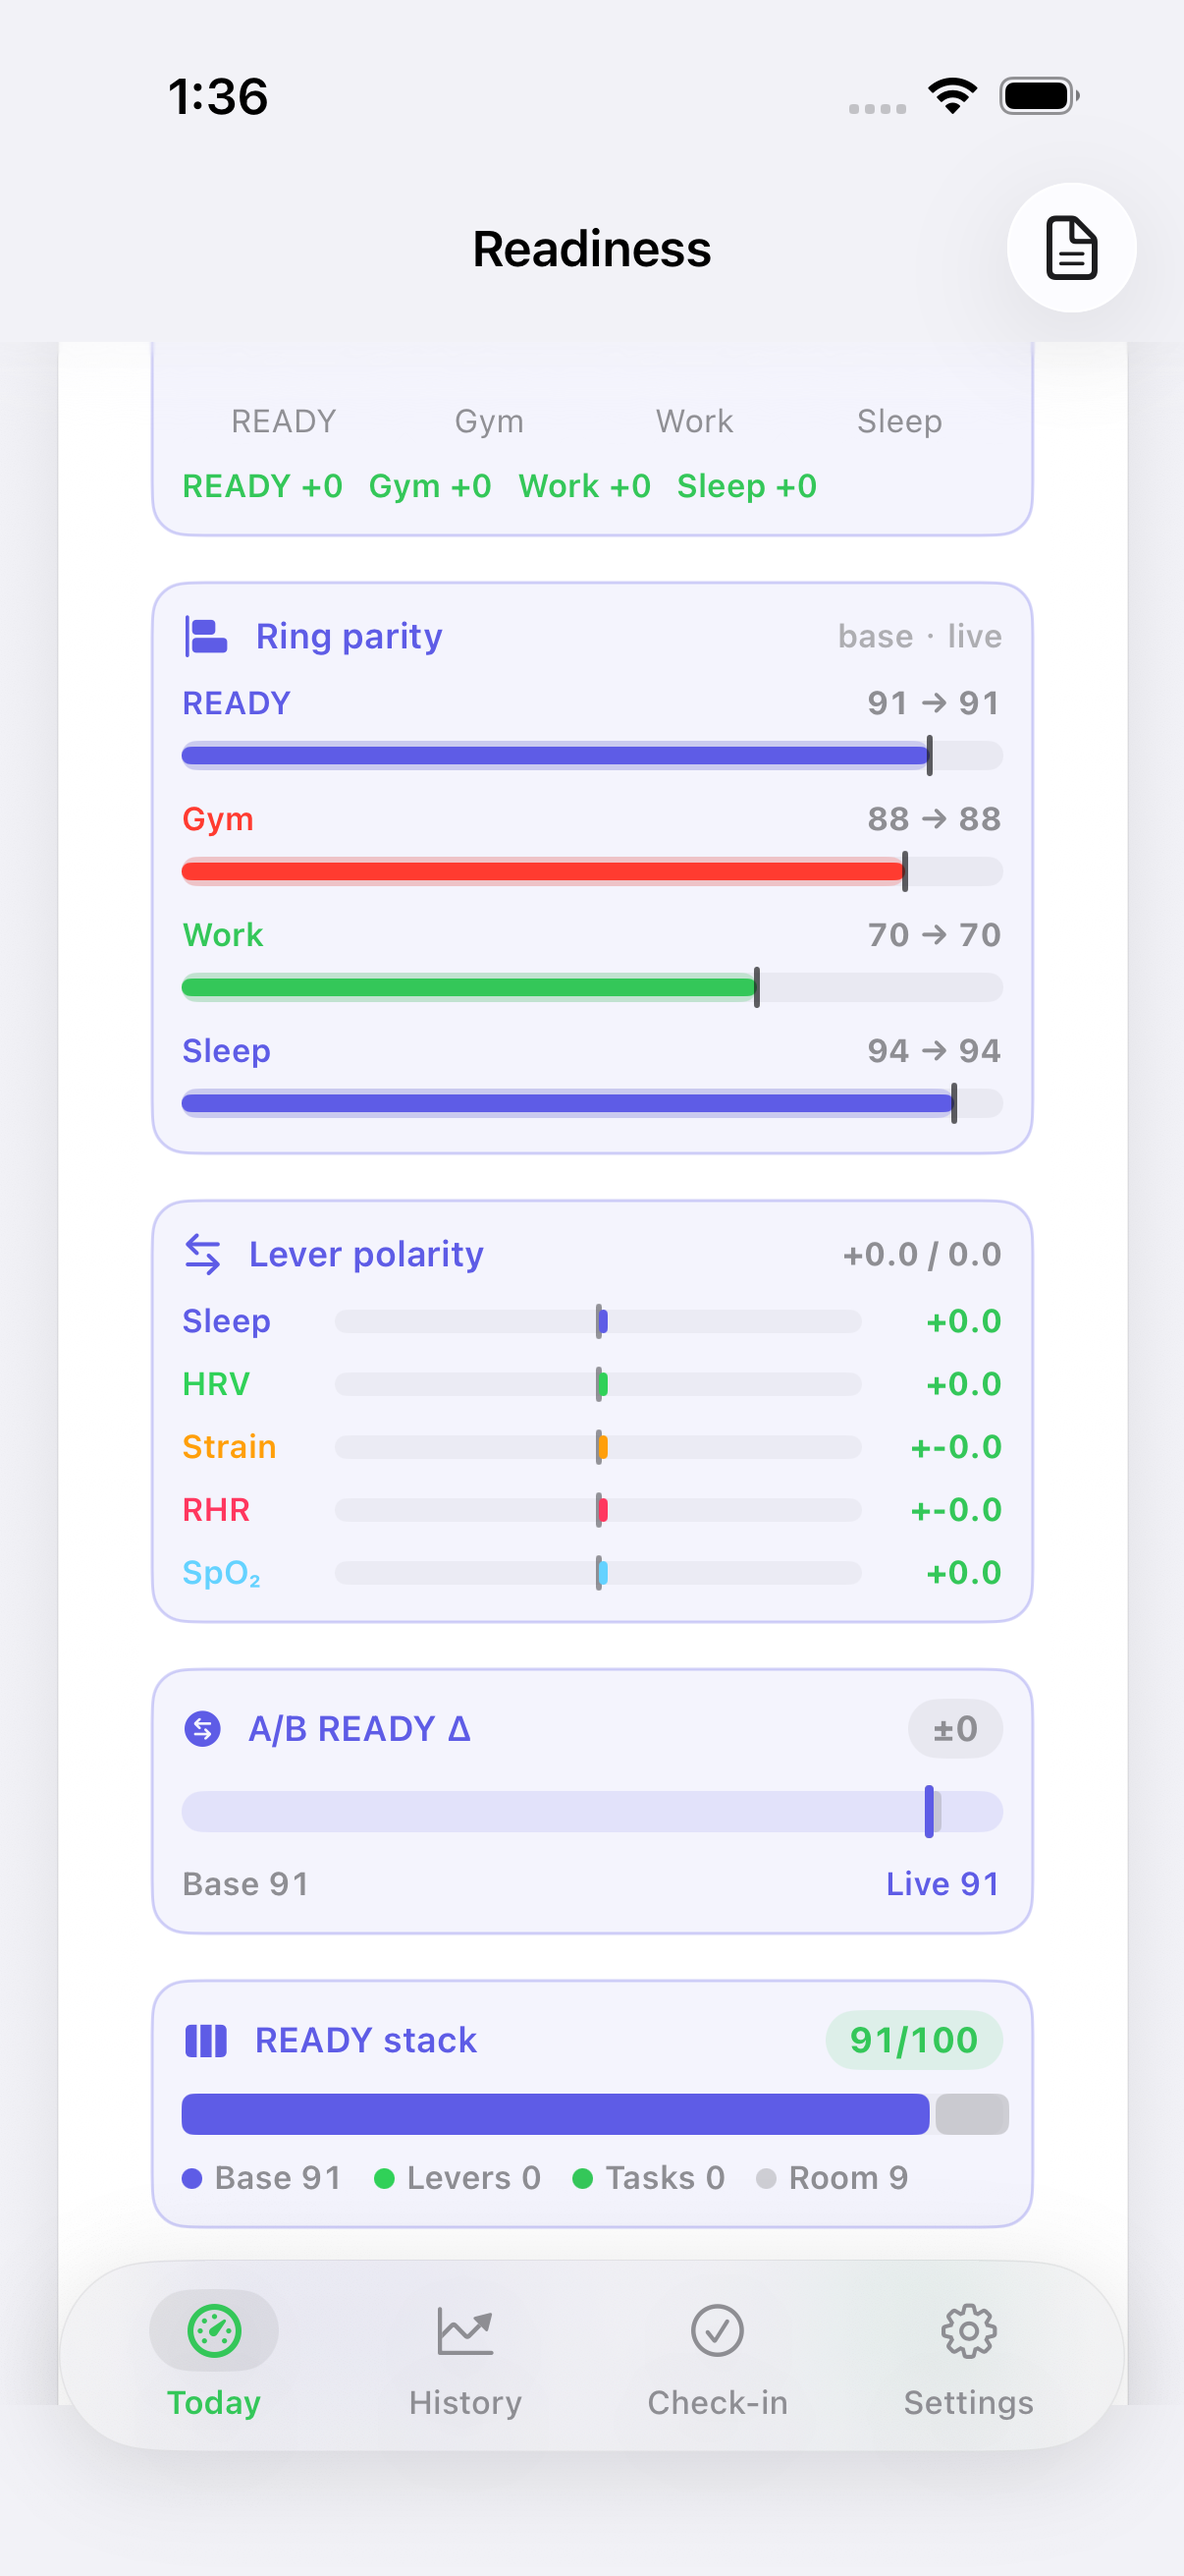
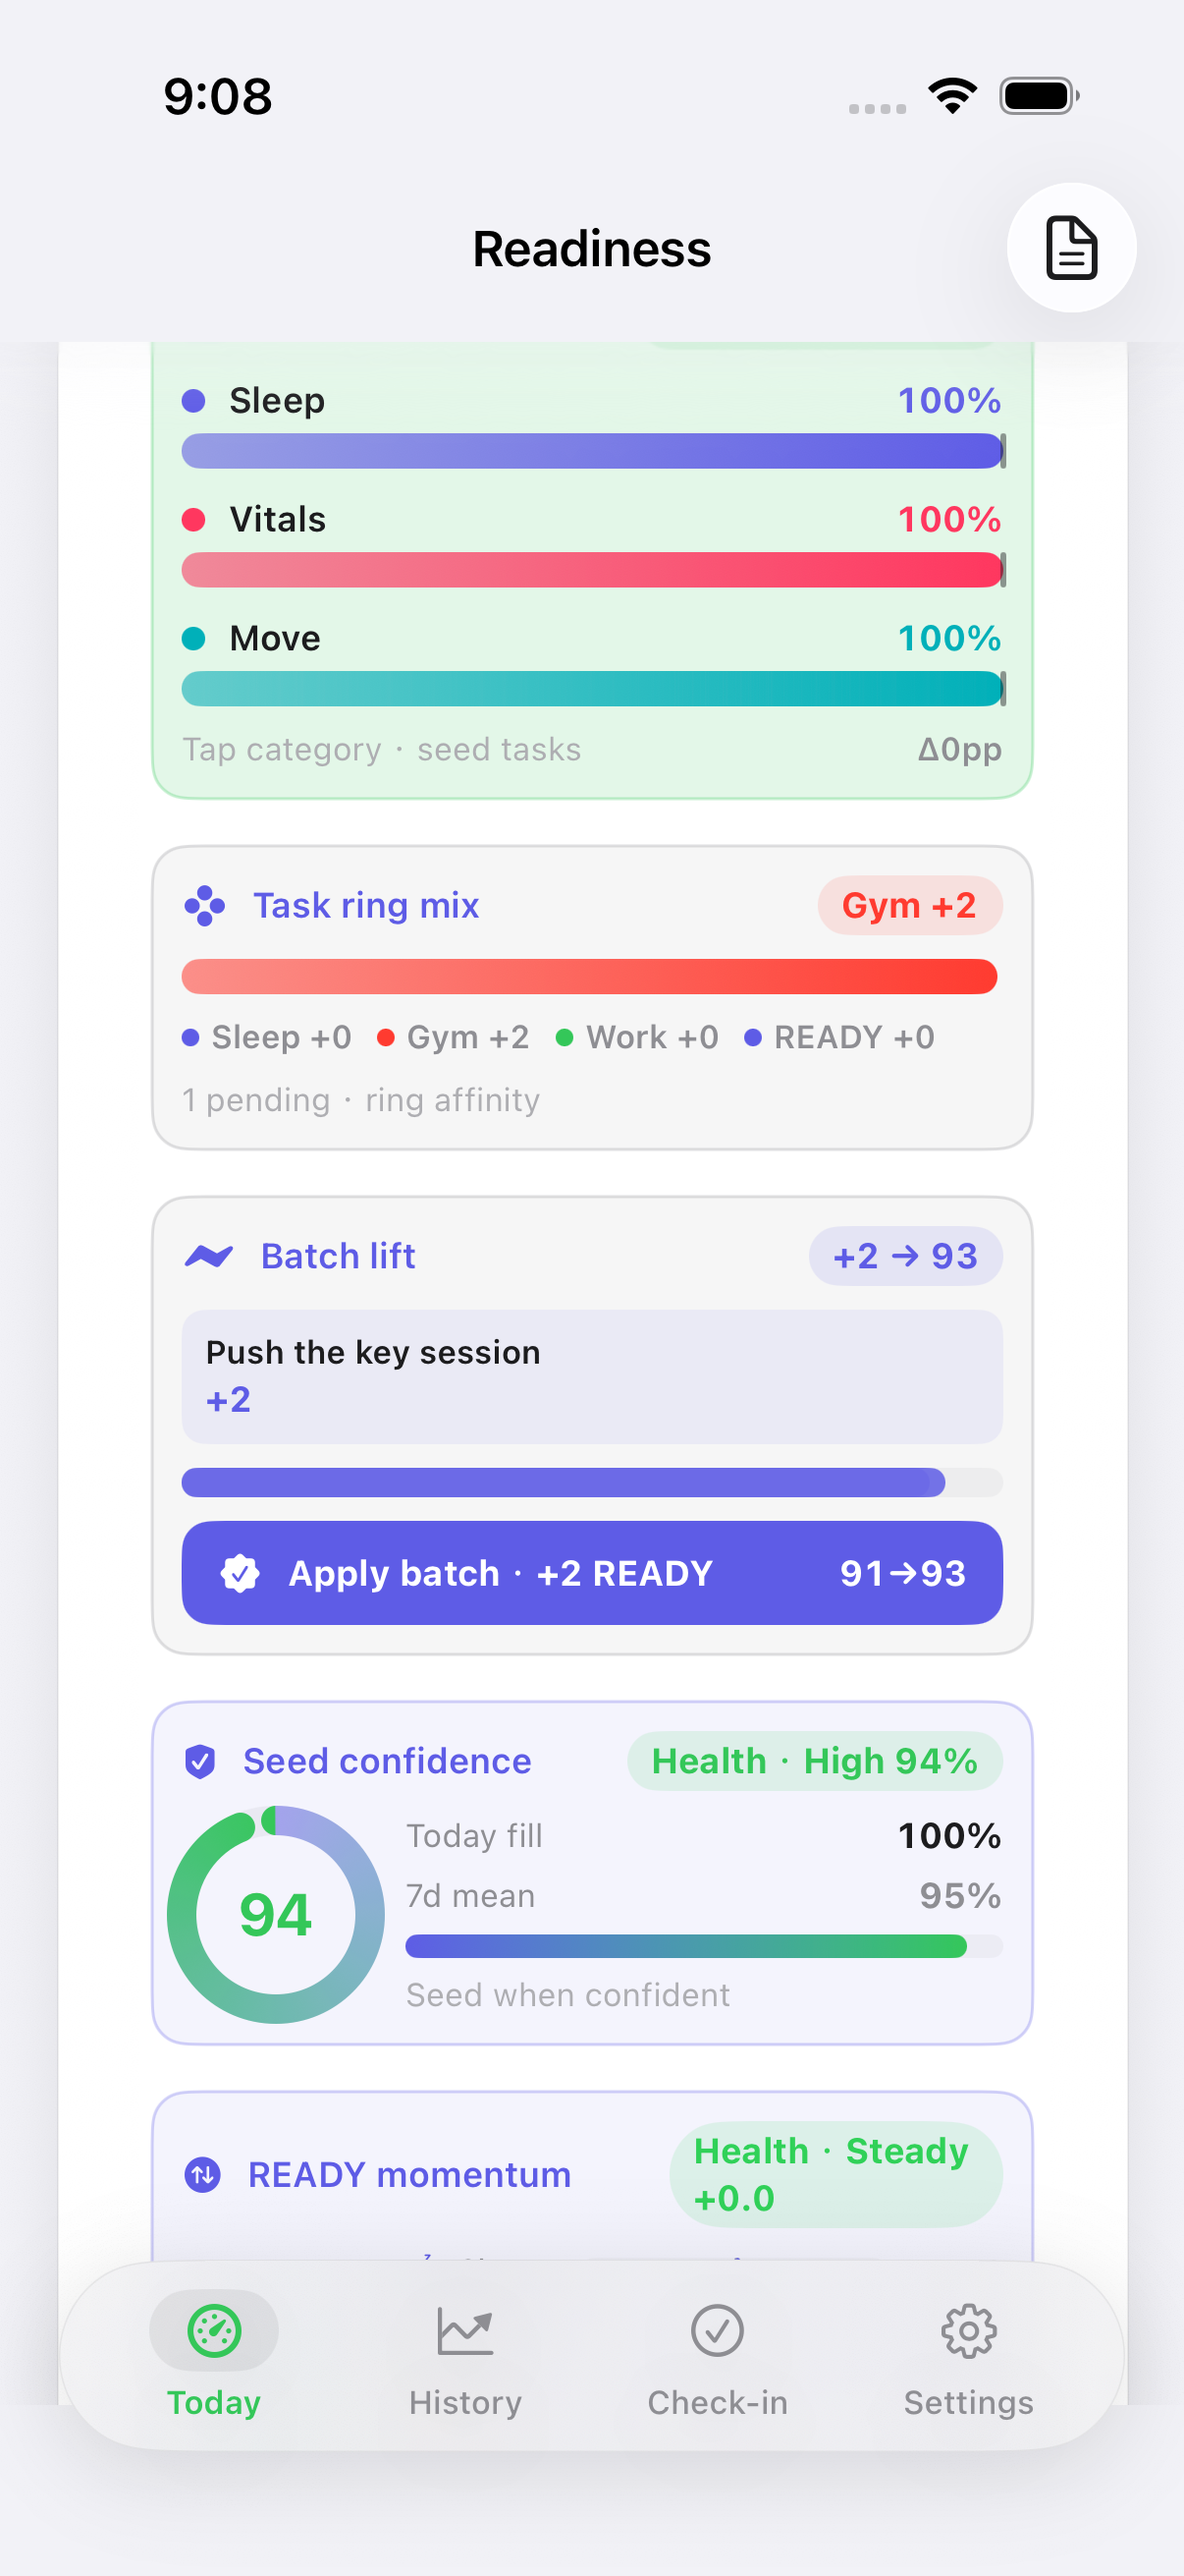
Honest #738: Simulator batch lift (WHOOP wells)
Restyle the existing Simulator batch lift preview (`sim.load.tasks.batch.lift`, Honest #603) with WHOOP wells.

- Idle (no tasks checked): ghost/hairline 8%/28%
- Active (some checked, batch still pending): 14% fill + 28% hairline (accent)
- All-checked already hides the widget (existing EmptyView); no new SurfaceID; no READY formula change

Proof: `testReadinessLoadSimulatorSurface` 769.910s, 0 failures; `.audit/verify-simulator-batch-lift.png`
model=deepseek-flash (mechanical pattern-copy of #737 wells)

diff --git a/ReadinessTracker/Views/WhoopFeatures/ReadinessLoadSimulatorCard.swift b/ReadinessTracker/Views/WhoopFeatures/ReadinessLoadSimulatorCard.swift
@@ -2813,7 +2813,7 @@ struct ReadinessLoadSimulatorCard: View {
 
 
 
-    /// Honest #603: next-batch lift preview — combined READYΔ of next 2 impact tasks (richer sim/tasks).
+    /// Honest #603 / #738: next-batch lift preview — combined READYΔ of next 2 impact tasks (WHOOP wells; richer sim/tasks).
     @ViewBuilder
     private var taskBatchLiftPreview: some View {
         let unchecked = tasks.filter { !completedTaskIDs.contains($0.id) }
@@ -2830,6 +2830,8 @@ struct ReadinessLoadSimulatorCard: View {
         let lift = batch.map(\.readyDelta).reduce(0, +)
         let after = min(100, projectedCoupled + lift)
         let tone: Color = lift >= 6 ? RTColor.optimal : (lift >= 3 ? RTColor.good : accent)
+        let batchIsActive = !completedTaskIDs.isEmpty
+        let wellTone: Color = batchIsActive ? accent : RTColor.secondaryText
         return VStack(alignment: .leading, spacing: 8) {
             HStack(spacing: 8) {
                 Image(systemName: "bolt.horizontal.fill")
@@ -2901,10 +2903,10 @@ struct ReadinessLoadSimulatorCard: View {
             .accessibilityLabel("Apply batch lift plus \(lift) READY")
         }
         .padding(10)
-        .background(accent.opacity(0.07), in: RoundedRectangle(cornerRadius: 12, style: .continuous))
+        .background(wellTone.opacity(batchIsActive ? 0.14 : 0.08), in: RoundedRectangle(cornerRadius: 12, style: .continuous))
         .overlay(
             RoundedRectangle(cornerRadius: 12, style: .continuous)
-                .stroke(accent.opacity(0.28), lineWidth: 1)
+                .stroke(wellTone.opacity(0.28), lineWidth: 1)
         )
         .accessibilityIdentifier(SurfaceID.readinessSimulatorBatchLift)
         .accessibilityLabel("Batch lift plus \(lift) to \(after)")

diff --git a/ReadinessTracker/Design/Theme.swift b/ReadinessTracker/Design/Theme.swift
@@ -402,7 +402,7 @@ enum SurfaceID {
     static let readinessSimulatorReadyBurndown = "sim.load.ready.burndown"  // Honest #597 / #735
     static let readinessSimulatorGHTriad = "sim.load.gh.triad"  // Honest #599 / #736
     static let readinessSimulatorTaskRingMix = "sim.load.task.rings"  // Honest #601 / #737
-    static let readinessSimulatorBatchLift = "sim.load.tasks.batch.lift"  // Honest #603
+    static let readinessSimulatorBatchLift = "sim.load.tasks.batch.lift"  // Honest #603 / #738
     static let readinessSimulatorSeedConfidence = "sim.load.seed.confidence"  // Honest #605
     static let readinessSimulatorReadyMomentum = "sim.load.ready.momentum"  // Honest #607
     static let readinessSimulatorReadyBuffer = "sim.load.ready.buffer"  // Honest #609

diff --git a/ReadinessTrackerUITests/SurfacesUITests.swift b/ReadinessTrackerUITests/SurfacesUITests.swift
@@ -10739,7 +10739,7 @@ final class SurfacesUITests: XCTestCase {
         saveShot("verify-simulator-task-ring-mix.png")
 
 
-        // Honest #603: batch lift preview
+        // Honest #603 / #738: batch lift preview (WHOOP wells)
         let batchLift = app.descendants(matching: .any)["sim.load.tasks.batch.lift"].firstMatch
         XCTAssertTrue(batchLift.waitForExistence(timeout: 5)
                       || app.descendants(matching: .any)["sim.load.task.rings"].firstMatch.exists

diff --git a/.audit/decision-log-2026-11-04.md b/.audit/decision-log-2026-11-04.md
@@ -269,3 +269,7 @@
 | 20:27 HKT | Honest #737 Simulator task ring mix | prove | started UITest /tmp/RT-DD737; model=deepseek-flash | mid-ship |
 | 20:45 HKT | #737 Simulator task ring mix | prove | UITest suite green /tmp/RT-DD737 (773.239s, 0 failures); model=deepseek-flash |
 | 20:46 HKT | #737 Simulator task ring mix | land | proof PNG + receipt; SID sim.load.task.rings; PR squash next; model=deepseek-flash |
+| 20:56 HKT | Honest #738 Simulator batch lift | model=deepseek-flash | restyle existing sim.load.tasks.batch.lift after task ring mix #737; WHOOP ghost/active wells; mechanical pattern-copy of #737 wells applied locally (no separate model iterate needed) | mid-ship |
+| 20:56 HKT | Honest #738 Simulator batch lift | prove | started UITest /tmp/RT-DD738; model=deepseek-flash | mid-ship |
+| 21:14 HKT | #738 Simulator batch lift | prove | UITest suite green /tmp/RT-DD738 (769.910s, 0 failures); model=deepseek-flash |
+| 21:16 HKT | #738 Simulator batch lift | land | proof PNG + receipt; SID sim.load.tasks.batch.lift; PR squash next; model=deepseek-flash |

diff --git a/.audit/features/readiness-simulator-batch-lift.md b/.audit/features/readiness-simulator-batch-lift.md
@@ -1,5 +1,6 @@
-# Honest #603: Simulator batch lift preview
+# Honest #603 / #738: Simulator batch lift preview
 
-Next 2 impact tasks combined READYΔ + Apply batch CTA.
-SurfaceID: `sim.load.tasks.batch.lift`
+Next 2 impact tasks combined READYΔ + Apply batch CTA (WHOOP wells).
+Idle (no tasks checked) = ghost/hairline 8%/28%; active (some checked, batch still pending) = 14% fill + 28% hairline with accent; all-checked hides the widget (existing EmptyView).
+SurfaceID: `sim.load.tasks.batch.lift` (existing; no new SID)
 Proof: `.audit/verify-simulator-batch-lift.png`

diff --git a/.cursor/skills/verify-readiness-tracker/features/readiness-simulator-batch-lift.md b/.cursor/skills/verify-readiness-tracker/features/readiness-simulator-batch-lift.md
@@ -1,5 +1,6 @@
-# Honest #603: Simulator batch lift preview
+# Honest #603 / #738: Simulator batch lift preview (WHOOP wells)
 
 Next 2 impact tasks combined READYΔ + Apply batch.
+Idle (no tasks checked) = ghost/hairline 8%/28%; active (some checked, batch still pending) = 14% fill + 28% hairline with accent; all-checked hides the widget (existing EmptyView).
 SurfaceID: `sim.load.tasks.batch.lift`
 Proof: `.audit/verify-simulator-batch-lift.png`

diff --git a/.audit/readiness-simulator-batch-lift.md b/.audit/readiness-simulator-batch-lift.md
@@ -1,2 +1,3 @@
-Honest #603: Simulator batch lift
+Honest #603 / #738: Simulator batch lift (WHOOP wells)
 SurfaceID sim.load.tasks.batch.lift
+Proof: .audit/verify-simulator-batch-lift.png
